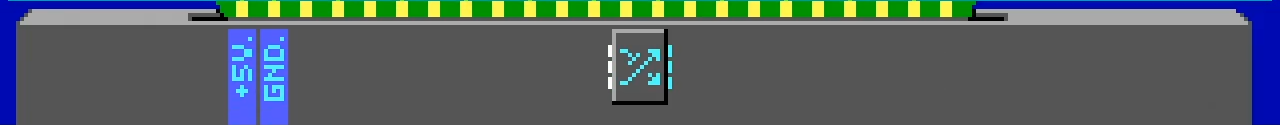
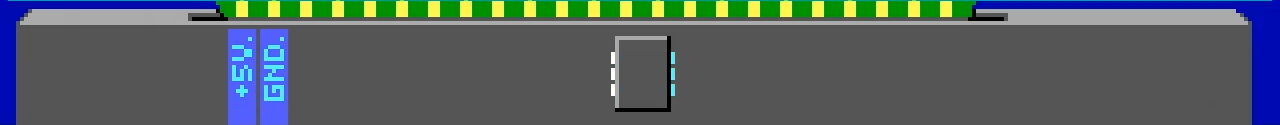
End of Apr-26

Changed region(s): [[0.4688, 0.288, 0.5312, 0.84], [0.4688, 0.864, 0.5312, 0.912], [0.4688, 0.216, 0.5312, 0.264]]

diff --git a/wtgame.js b/wtgame.js
@@ -3,21 +3,22 @@ const context = canvas.getContext('2d');
 
 const alarmRed = '#c00'
 
-// let board = document.getElementById('board');
+let myRAF; // myRAF = requestAnimationFrame
+
 let boardTop = document.getElementById('board-top');
 let boardBottom = document.getElementById('board-bottom');
 let tileX = document.getElementById('tile-x');
 
-let brdg01 = document.getElementById('brdg-01');
-let brdg02 = document.getElementById('brdg-02');
+let path01 = document.getElementById('path-01');
+let path02 = document.getElementById('path-02');
 
-let tile00 = document.getElementById('tile-00');
-let tile01 = document.getElementById('tile-01');
-let tile02 = document.getElementById('tile-02');
+let chip00 = document.getElementById('chip-00');
+let chip01 = document.getElementById('chip-01');
+let chip02 = document.getElementById('chip-02');
 
 
-let timerInput = 2; // time for solving puzzle in min;
-let timeSec = timerInput * 60 * 1;
+let timerInput = 1; // time for solving puzzle in min;
+let timeSec01 = timerInput * 60 * 10;
 
 function popUpWindow(type) {
   if (type == 'alarm') {
@@ -46,30 +47,30 @@ function popUpWindow(type) {
   }
 }
 
-function drawTimer() {
-  let timer = setInterval(myTimer, 1000);
+function drawDSTimer() {
+  let timer = setInterval(myTimer, 100);
   function myTimer() {
     let StrTimer = '00:00:00'
-    if (timeSec < 0) {
+    if (timeSec01 < 0) {
       clearInterval(timer);
       popUpWindow('time-out');
     } else {
-      h = Math.trunc(timeSec/60/60%60);
-      m = Math.trunc(timeSec/60%60);
-      s = timeSec%60; 
-      strTimer = (h<10) ? `0${h}` : `${h}`;
-      strTimer += (m<10) ? ` : 0${m}` : ` : ${m}`;
-      strTimer += (s<10) ? ` : 0${s}` : ` : ${s}`;
-      --timeSec;
+      m = Math.trunc(timeSec01/10/60 % 60);
+      s = Math.trunc(timeSec01/10 % 60);
+      ds = timeSec01%10; 
+      strTimer =  (m<10) ? `0${m}`  : `${m}`;
+      strTimer += (s<10) ? `:0${s}` : `:${s}`;
+      strTimer += `:${ds}0`;
+      --timeSec01;
       context.fillStyle = '#000';
-      if ((timeSec < 10) && (timeSec % 2 != 0)) {
-        context.fillStyle = '#c00'
+      if ((s < 10) && (s % 2 != 0)) {
+        context.fillStyle = '#b00'
       };
       context.fillRect(1010, 760, 205, 50);
-      context.font = "36px Arial";
+      context.font = "36px Consolas";
       context.fillStyle = '#0f0';
       context.textAlign = "start";
-      context.fillText("" + strTimer, 1020, 797);
+      context.fillText("" + strTimer, 1030, 796);
     }
   }
 }
@@ -82,10 +83,11 @@ function drawBoard() {
 }
 
 function drawTiles() {
+  context.drawImage(chip02, 8+(32*19)+3, 748);
   for (j = 0; j < 5; j++) {
     for (i = 1; i < 14; i += 2) {
-      context.drawImage(tile01, (33*3) + 64 * i, (2*33) + (j*64*2) - 6);
-      context.drawImage(brdg01, (33*3) + 64 * (i+1), (2*33) + (j*64*2));
+      context.drawImage(chip01, 10+(32*3) + 64 * i, (2*32) + (j*64*2) + 2);
+      if (i < 12) {context.drawImage(path02, 10+(32*3) + 64 * (i+1), (2*33) + (j*64*2))};
     }
   }
 }
@@ -111,12 +113,12 @@ function pauseBrowser(millis) {
 
 function draw() {
   drawTiles();
-  context.drawImage(tile02, (32*19)+3, 745);
+//  context.drawImage(tile02, (32*19)+3, 745);
 }
 
 function update() {
   draw();
-  requestAnimationFrame(update);
+  myRAF = requestAnimationFrame(update);
 }
 
 document.addEventListener('keydown', event => {
@@ -133,14 +135,14 @@ document.addEventListener('keydown', event => {
 
 // - - RUNNING - - //
 
-loading('Wire Tapping');
+// loading('Wire Tapping');
 // pauseBrowser(1000);
 
 // - - TESTING - - //
 
 drawBoard();
 
-drawTimer();
+drawDSTimer();
 
 update();
 

diff --git a/game.html b/game.html
@@ -3,7 +3,8 @@
 
 <head>
   <title> WIRE TAP GAME </title>
-  <style>
+          <!-- COMMENTS for HTML-->
+  <style> /* COMMENTS FOR CSS*/
     body {
       background: #202020;
       color: #fff;
@@ -24,11 +25,11 @@
       <img id="board-top" src="Assets/Board-Top.png">
       <img id="board-bottom" src="Assets/Board-Bottom.png">
       <img id="tile-x" src="Assets/T-X.png">
-      <img id="brdg-01" src="Assets/B-01.png">
-      <img id="brdg-02" src="Assets/B-02.png">
-      <img id="tile-00" src="Assets/T-00.png">
-      <img id="tile-01" src="Assets/T-01.png">
-      <img id="tile-02" src="Assets/T-02.png">
+      <img id="path-01" src="Assets/Path-01.png">
+      <img id="path-02" src="Assets/Path-02.png">
+      <img id="chip-00" src="Assets/Chip-00.png">
+      <img id="chip-01" src="Assets/Chip-01.png">
+      <img id="chip-02" src="Assets/Chip-02.png">
     </div>
     <script src="wtgame.js"></script>
 </body>
